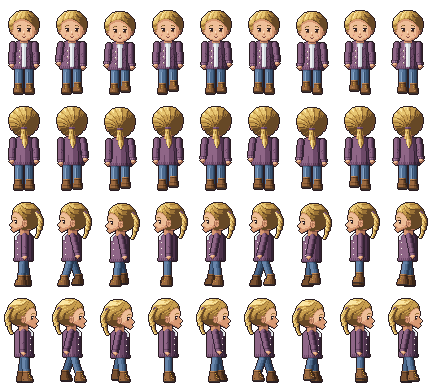
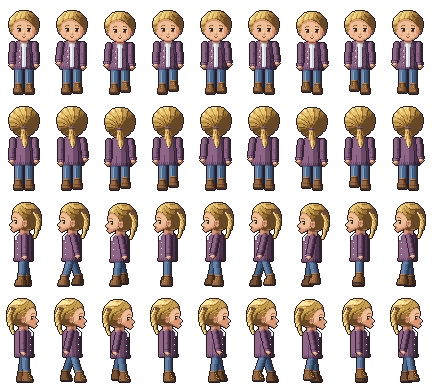
HD characters: profile heads (interim)
Claude-Session: https://claude.ai/code/session_014ojSqavcfSbWoB7HzQZk85

diff --git a/assets/hd/chars/people.py b/assets/hd/chars/people.py
@@ -1432,7 +1432,7 @@ class Person:
                     th=(0.95, 0.66, 0.42, 0.2))
             for (x, y) in [(CX - 5, 15 + b), (CX - 4, 15 + b), (CX - 5, 16 + b)]: f.put(x, y, s['skin'], 0, dp)
             hp = f.part()
-            mm = [p for p in self.face_mask if p[0] > EX + 3 and 23 + b <= p[1] <= 36 + b] + \
+            mm = [p for p in self.face_mask if EX + 3 < p[0] <= EX + 11 and 24 + b <= p[1] <= 35 + b] + \
                  [p for p in self.face_mask if EX <= p[0] <= EX + 3 and 24 + b <= p[1] <= 27 + b]
             f.paint(mm, hr, hp, mode='sph', lo=1, hi=4, tex=lambda x, y: -0.14 if (x + 2 * y) % 5 == 0 else 0.03)
             self.hair_mask = set(mm)
@@ -1511,16 +1511,16 @@ class Person:
         if st == 'ponytail':
             pp = f.part()
             pm = []
-            path = [(CX + 13, 20), (CX + 14, 22), (CX + 15, 24), (CX + 16, 26), (CX + 16, 28), (CX + 16, 30),
-                    (CX + 16, 32), (CX + 15, 34), (CX + 15, 36), (CX + 14, 38), (CX + 14, 40), (CX + 13, 42), (CX + 12, 44)]
+            path = [(CX + 11, 20), (CX + 12, 22), (CX + 13, 24), (CX + 14, 26), (CX + 14, 28), (CX + 14, 30),
+                    (CX + 14, 32), (CX + 13, 34), (CX + 13, 36), (CX + 12, 38), (CX + 12, 40), (CX + 11, 42), (CX + 10, 44)]
             for k, (x, y) in enumerate(path):
                 w = 2 if k < 9 else 1
                 for yy in (y, y + 1):
                     for dx_ in range(-w, w + 1): pm.append((x + dx_, yy + b))
             f.paint(pm, hr, pp, bias=0.02, lo=0, hi=4, tex=lambda x, y: strands(x, y, CX, 8 + b, 9, 2))
             tie = f.part(); scr = s.get('scrunchie', 'teal')
-            for (x, y) in [(CX + 12, 19), (CX + 13, 19), (CX + 13, 20), (CX + 14, 20), (CX + 14, 21)]:
-                f.put(x, y + b, scr, 1 if x < CX + 13 else 2, tie)
+            for (x, y) in [(CX + 10, 19), (CX + 11, 19), (CX + 11, 20), (CX + 12, 20), (CX + 12, 21)]:
+                f.put(x, y + b, scr, 1 if x < CX + 11 else 2, tie)
 
     def side_hat(self):
         s, f, b = self.s, self.f, self.b
